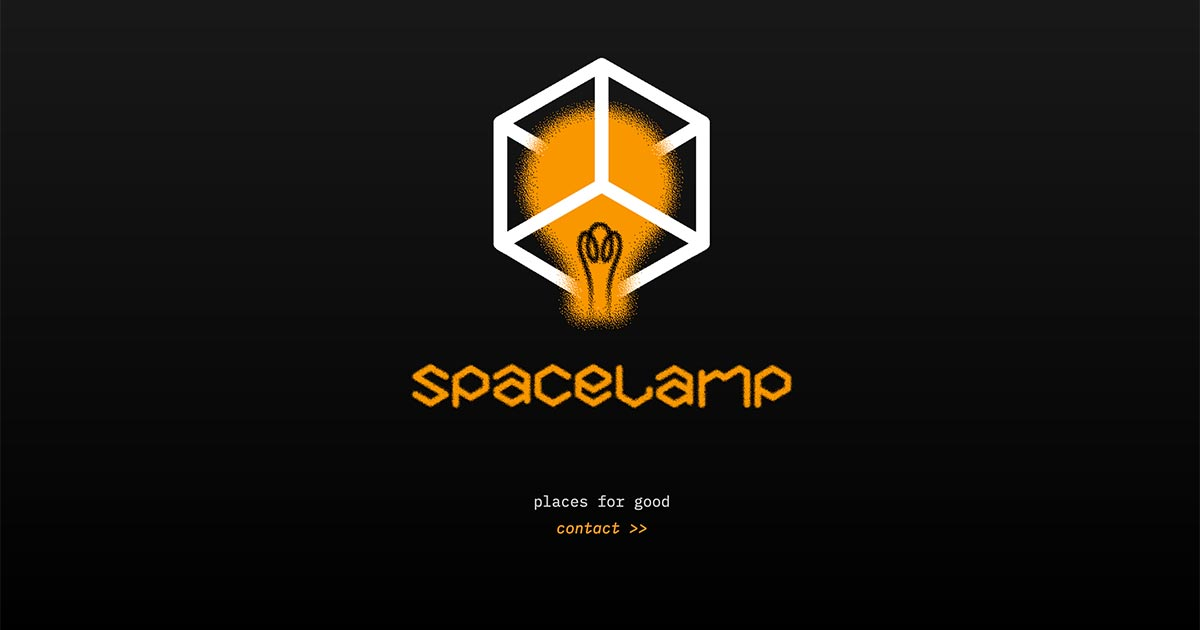
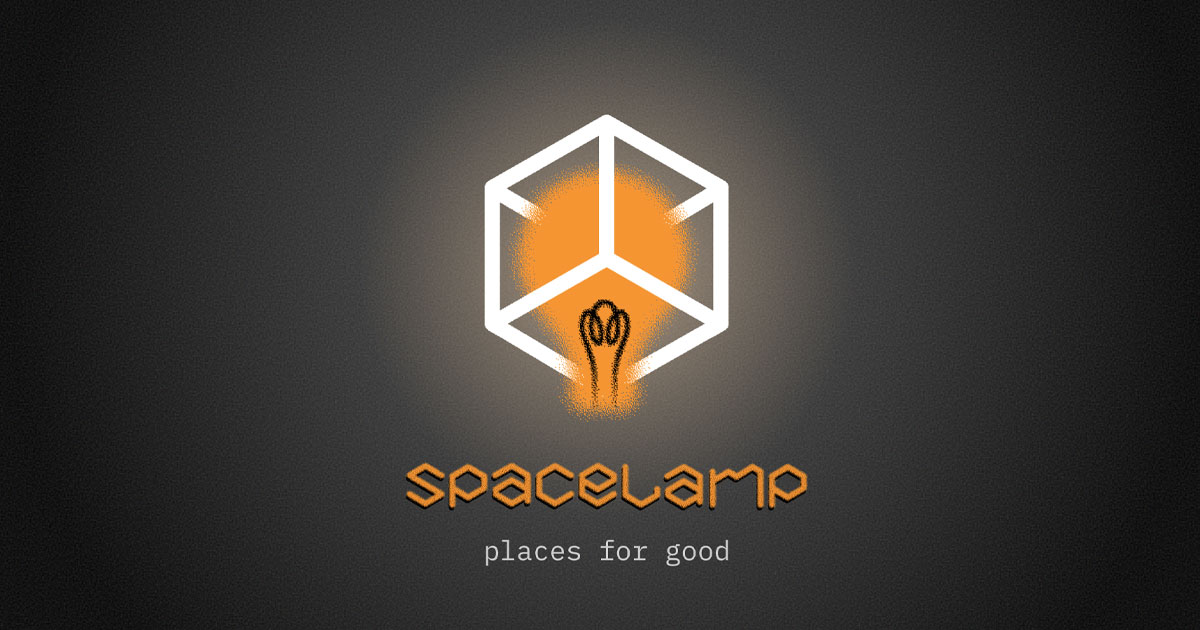
Few updates before shipping

diff --git a/css/style.css b/css/style.css
@@ -9,7 +9,7 @@
 
 body {
   overscroll-behavior: none;
-  background-color: #000000;
+  background-color: #1c1c1c;
 	font-family: 'IBM Plex Mono', monospace;
 	font-size: 16px;
 	line-height: 1.5;
@@ -35,11 +35,11 @@ main::after {
   height: 100%;
   mix-blend-mode: screen;
   background: radial-gradient(circle at 50% 36%, #fcddb7 0%, #4a4a4a 23%, #000 55%);
-  animation: itslit 250ms ease alternate infinite;
-  -webkit-animation: itslit 250ms ease alternate infinite;
-  -moz-animation: itslit 250ms ease alternate infinite;
-	-ms-animation: itslit 250ms ease alternate infinite;
-  -o-animation: itslit 250ms ease alternate infinite;
+  animation: itslit 250ms ease-in-out alternate infinite;
+  -webkit-animation: itslit 250ms ease-in-out alternate infinite;
+  -moz-animation: itslit 250ms ease-in-out alternate infinite;
+	-ms-animation: itslit 250ms ease-in-out alternate infinite;
+  -o-animation: itslit 250ms ease-in-out alternate infinite;
   animation-delay: 250ms;
 }
 
@@ -144,7 +144,7 @@ footer a:hover {
 @media only screen and (max-height:350px) {
   main {
     height: 100%;
-   margin-top: -2rem;
+    margin-top: -2rem;
     padding: 2rem 0 4rem 0;
   }
   footer {

diff --git a/index.html b/index.html
@@ -7,16 +7,15 @@
 		<meta name="viewport" content="width=device-width, initial-scale=1">
 		<title>SPACE LAMP</title>
 		<meta name="description" content="places for good">
-		<link rel="icon" href="../imgs/sl-favanimate.gif">
-		<link rel="apple-touch-icon" href="../imgs/sl-homescreen.gif">
+		<link rel="icon" href="/imgs/sl-favanimate.gif" type="image/gif">
+		<link rel="apple-touch-icon" href="https://www.spacelamp.nz/imgs/sl-homescreen.gif">
 		<meta property="og:title" content="SPACE LAMP">
 		<meta property="og:type" content="website">
-		<meta property="og:url" content="___CURRENT_URL___">
+		<meta property="og:url" content="https://www.spacelamp.nz/">
 		<meta property="og:description" content="places for good">
-		<meta property="og:image" content="___ROOT_HOST___/imgs/sl-sharing.jpg">
-		<link rel="stylesheet" href="../css/_base.css">
-		<link rel="stylesheet" href="../css/_fonts.css">
-		<link rel="stylesheet" href="../css/style.css">
+		<meta property="og:image" content="https://www.spacelamp.nz/imgs/sl-sharing.jpg">
+		<link rel="stylesheet" href="/css/_base.css">
+		<link rel="stylesheet" href="/css/style.css">
 	</head>
 	<body>
 		<main>
